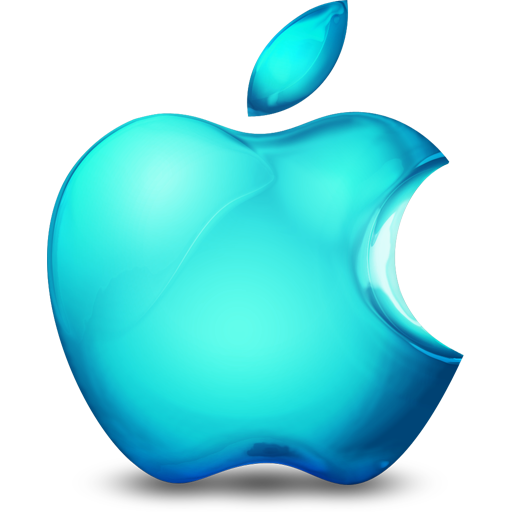
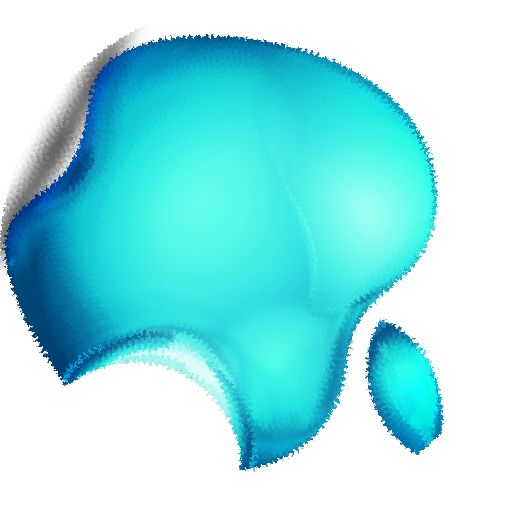
tourner les images

diff --git a/Program.py b/Program.py
@@ -2,7 +2,11 @@ import os
 from tkinter import *
 from PIL import ImageTk,Image
 import tkFileDialog
+import time
 
+#90 tourne limage a gauche
+#-90 tourne limage a droite
+#180 a lenvers
 class Program:
 
     def __init__(self):
@@ -14,6 +18,13 @@ class Program:
         self.frame.pack(expand=YES,side=LEFT)
         self.dicimg = {}
         self.listeFichier = []
+        self._objetCanvas = []
+        self._objetCreateImage = []
+        self._img = ""
+        self._image = ""
+        self._photo = ""
+        self._button = []
+        self.canvas = Canvas(self.frame,width=1000,height=1000,bg="white")
     def create_widgets(self):
         self.create_source_dossier_button()
         self.create_tourner_a_droite_button()
@@ -23,13 +34,20 @@ class Program:
         yt_button.pack(pady=25, fill=X)
 
     def create_tourner_a_droite_button(self):
-        yt_buttonDroite = Button(self.frame,text='Tourner a droite',command=lambda: self.tournerImageDroite(self._srcFolder,self.listeFichier))
+        yt_buttonDroite = Button(self.frame,text='Tourner a droite',command=lambda: self.tournerImageDroite(self._srcFolder,self.listeFichier,self._objetCanvas,self._objetCreateImage))
         yt_buttonDroite.pack(pady=25, fill=X)
+
+    def creerDictionnnaire(self,listeFichier):
+        for i in range(len(listeFichier)):
+            self._objetCanvas.append(listeFichier[i])
 
     def choisirUnDossier(self):
         self._srcFolder = tkFileDialog.askdirectory(parent=self._fenetre,initialdir="/user",title='Please select a directory')
         self.listeFichier = os.listdir(self._srcFolder)
         self.afficherLesImages(self._srcFolder,os.listdir(self._srcFolder))
+        self.creerDictionnnaire(self.listeFichier)
+
+
 
     def afficherLesImages(self,src,listeFichier):
         p = 0
@@ -40,16 +58,36 @@ class Program:
             image = image.resize((200, 200), Image.ANTIALIAS)
             photo = ImageTk.PhotoImage(image)
             self.dicimg[p] = photo
-            v["cadre%d" % p]=Canvas(self.frame,width=200,height=200,bg="white")
-            v["cadre%d" % p].create_image(0,0,anchor=NW,image =photo)
-            v["cadre%d" % p].pack()
+            #self._objetCanvas.append(Canvas(self.frame,width=200,height=200,bg="white"))
+            x = int((p+1)) *200
+            image_on_cavas =  self.canvas.create_image(x,25,anchor=NW,image =photo)
+            self._objetCreateImage.append(image_on_cavas)
+            
+            
             p = p +1
+        self.canvas.pack()
+            
     
-    def tournerImageDroite(self,scr,listeFichier):
+    def tournerImageDroite(self,scr,listeFichier,listeCanvas,listeObjetCanvas):
 
-        for i in listeFichier:
-            img = scr+"/"+i
-            image = Image.open(img) 
-            image.rotate(45)
+        for i in range(len(listeFichier)):
+            self.traitementImage(scr,listeFichier,i)
         
+        self.canvas.delete("all")
+
         self.afficherLesImages(scr,listeFichier)
+
+
+
+    def traitementImage(self,scr,listeFichier,index,degree):
+        self._img = scr+"/"+listeFichier[index]
+        self._image = Image.open(self._img) 
+        self._image = self._image.rotate(-90)
+        self._image.save("image/"+listeFichier[index])
+        self._image = self._image.resize((200, 200), Image.ANTIALIAS)
+        self._photo = ImageTk.PhotoImage(self._image)
+        #self.canvas.itemconfig(self._objetCreateImage[index],image=self._photo)
+        
+        
+
+  
